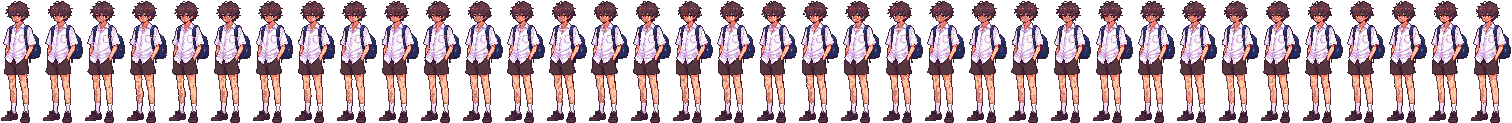
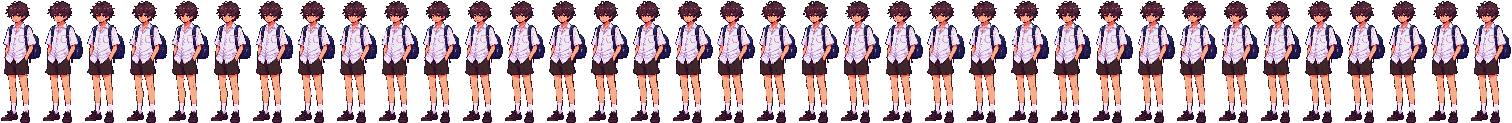
Idle: keep the video's own colours (no recolour blotches)
The recolour step (material clusters + the still's shade ranks) added blotchy
shading that is not in the source clip. The idle video already matches the
still, so sample it directly like import_sprite.py does; --recolour keeps the
old path for videos whose colours are off.

Claude-Session: https://claude.ai/code/session_011NAKRUA9btL4iodwTEM3Dh

diff --git a/tools/import_idle_video.py b/tools/import_idle_video.py
@@ -1,9 +1,12 @@
 """Turn a green-screen idle (standing) video into a pixel-art sprite sheet.
 
-Uses the same steps as import_walk_video.py: key out the green, cut the frames into
-pixels by the majority material of each cell (crisp, no blending), give every
-material the idle sprite's exact spread of shades, redraw the 1px outline.
-For standing still it also:
+By default the video's own colours are kept: each game pixel takes the median colour
+at the centre of its cell in the video, exactly like tools/import_sprite.py does for
+stills (use this when the video already matches the still, as AI clips made from it
+do). --recolour instead uses import_walk_video.py's steps (majority material per cell,
+the still's spread of shades, a redrawn outline), for a video whose colours are off;
+on a clip that already matches it only adds blotchy shading.
+It also:
   - pins the feet: every frame is shifted so the planted feet stay on the same
     pixels (the body still sways; only the camera/AI drift is removed)
   - scales the character so the shirt collar is as high above the ground as in the
@@ -92,6 +95,43 @@ def add_strap(frame):
     return out
 
 
+def direct(args, frames, masks):
+    """Keep the video's colours: scale so the figure is as tall as the still, then give
+    each game pixel the median colour at the centre of its cell (no blending across
+    cells, so edges and the drawn outline stay crisp)."""
+    ref = Image.open(args.palette)
+    heights = [np.nonzero(m.any(1))[0] for m in masks]
+    fig_h = np.median([h.max() - h.min() + 1 for h in heights])
+    scale = ref.size[1] / fig_h
+    ch, cw = masks[0].shape
+    out_w, out_h = round(cw * scale / 2) * 2, round(ch * scale)
+    sy, sx = ch / out_h, cw / out_w
+    q = max(1, int(min(sx, sy) * 0.25))
+    result = []
+    for rgb, mk in zip(frames, masks):
+        out = np.zeros((out_h, out_w, 4), np.uint8)
+        for j in range(out_h):
+            cy = int((j + 0.5) * sy)
+            ys = slice(max(0, cy - q), cy + q + 1)
+            for i in range(out_w):
+                cx = int((i + 0.5) * sx)
+                xs = slice(max(0, cx - q), cx + q + 1)
+                m = mk[ys, xs]
+                if m.mean() >= 0.5:
+                    out[j, i, :3] = np.median(rgb[ys, xs][m], axis=0)
+                    out[j, i, 3] = 255
+        if not args.no_strap:
+            out = add_strap(out)
+        result.append(out)
+    sheet = Image.new("RGBA", (out_w * len(result), out_h), (0, 0, 0, 0))
+    for i, f in enumerate(result):
+        sheet.paste(Image.fromarray(f, "RGBA"), (i * out_w, 0))
+    sheet.save(args.out)
+    marks = [landmarks(f) for f in result]
+    print(f"{len(result)} frames of {out_w}x{out_h} -> {args.out} (video colours kept); collar heights",
+          sorted({int(h) for h, _ in marks}), "torso x", round(float(np.mean([x for _, x in marks])), 2))
+
+
 def main():
     ap = argparse.ArgumentParser()
     ap.add_argument("video")
@@ -102,6 +142,8 @@ def main():
     ap.add_argument("--palette", required=True, help="idle sprite whose colours and proportions to match")
     ap.add_argument("--materials", type=int, default=9)
     ap.add_argument("--no-strap", action="store_true", help="don't draw the second backpack strap")
+    ap.add_argument("--recolour", action="store_true",
+                    help="map colours to the still's shades (only for videos whose colours are off)")
     args = ap.parse_args()
 
     with tempfile.TemporaryDirectory() as tmp:
@@ -134,6 +176,10 @@ def main():
     x0, x1, y0, y1 = xs.min() - m, xs.max() + 1 + m, ys.min() - m, g_ref + 1
     frames = [f[y0:y1, x0:x1] for f in frames]
     masks = [mk[y0:y1, x0:x1] for mk in masks]
+
+    if not args.recolour:
+        direct(args, frames, masks)
+        return
 
     # Scale: collar height above the ground like the idle sprite
     ref = np.asarray(Image.open(args.palette).convert("RGBA"))

diff --git a/README.md b/README.md
@@ -97,8 +97,12 @@ python3 tools/import_idle_video.py art_source/hero_idle_greenscreen.mp4 assets/c
 
 ใช้ช่วงเฟรม 25-96 ของวิดีโอ (3 วินาที เฟรมท้ายต่อเฟรมแรกได้เนียน) เก็บทุก 2 เฟรม = 36 เฟรม เล่นวนที่ 12 เฟรม/วินาที
 วิดีโอชุดนี้สะพายเป้สองไหล่อยู่แล้ว จึงใช้ `--no-strap` (สคริปต์วาดสายที่สองให้ได้ ถ้าวิดีโอสะพายไหล่เดียว)
-ขั้นตอนเหมือนท่าเดิน (ลบฉากเขียว ตัดพิกเซลตามวัสดุ ใช้สีจากภาพยืน เส้นขอบ) และเพิ่ม: ตรึงเท้าให้อยู่ที่เดิมทุกเฟรม
-(ตัวยังโยกได้ แต่ภาพไม่ไหลตามกล้อง/AI) ย่อให้ปกเสื้อสูงเท่าภาพยืน (วัดผลแล้วปรับขนาดซ้ำ) และใช้ตารางพิกเซลเดียวกันทุกเฟรม (ส่วนที่นิ่งจึงไม่ยิบ)
+ค่าเริ่มต้นใช้**สีของวิดีโอตรงๆ** (แบบเดียวกับ `import_sprite.py` ที่ใช้กับภาพนิ่ง): ย่อให้ตัวสูงเท่าภาพยืน แล้วแต่ละพิกเซลเกมเอาค่ามัธยฐานสีกลางช่องของวิดีโอ
+ไม่ผสมสีข้ามช่อง ขอบและเส้นจึงคม ใช้เมื่อวิดีโอสีตรงกับภาพนิ่งอยู่แล้ว (วิดีโอ AI ที่ทำจากภาพนั้น)
+`--recolour` = ใช้ขั้นตอนแบบท่าเดิน (ตัดพิกเซลตามวัสดุ แทนด้วยเฉดสีจากภาพยืน วาดเส้นขอบใหม่) ใช้เฉพาะวิดีโอที่สีเพี้ยน/มืดกว่าภาพนิ่ง
+(ถ้าใช้กับวิดีโอที่สีตรงอยู่แล้ว จะเกิดเงาด่างๆ บนตัวที่ต้นฉบับไม่มี)
+ทั้งสองแบบ: ตรึงเท้าให้อยู่ที่เดิมทุกเฟรม
+(ตัวยังโยกได้ แต่ภาพไม่ไหลตามกล้อง/AI) (`--recolour` ย่อให้ปกเสื้อสูงเท่าภาพยืน วัดผลแล้วปรับขนาดซ้ำ) และใช้ตารางพิกเซลเดียวกันทุกเฟรม (ส่วนที่นิ่งจึงไม่ยิบ)
 และวาดสายเป้เส้นที่สองบนไหล่ที่ว่าง (ภาพต้นฉบับสะพายไหล่เดียว พลิกภาพแล้วกระเป๋าย้ายข้าง ส่วนท่าเดินเห็นสายสองข้าง) ตามภาพแบบ `art_source/hero_two_straps_ref.png`: พาดบนไหล่ ลงตามข้างอกโค้งออกเล็กน้อย จนใต้แขนเสื้อ มีหัวเข็มขัดปรับสายทั้งสองข้าง
 โดยตามปกเสื้อและขอบไหล่ทีละเฟรม (`--no-strap` เพื่อไม่วาด)
 `hero_walker.gd`: `idle_fps` > 0 = เล่นแผ่นภาพนี้, `ground_row` = แถวที่เท้าแตะพื้น (ภาพยืน/ท่าเดินวางเท้าแถวเดียวกัน)
